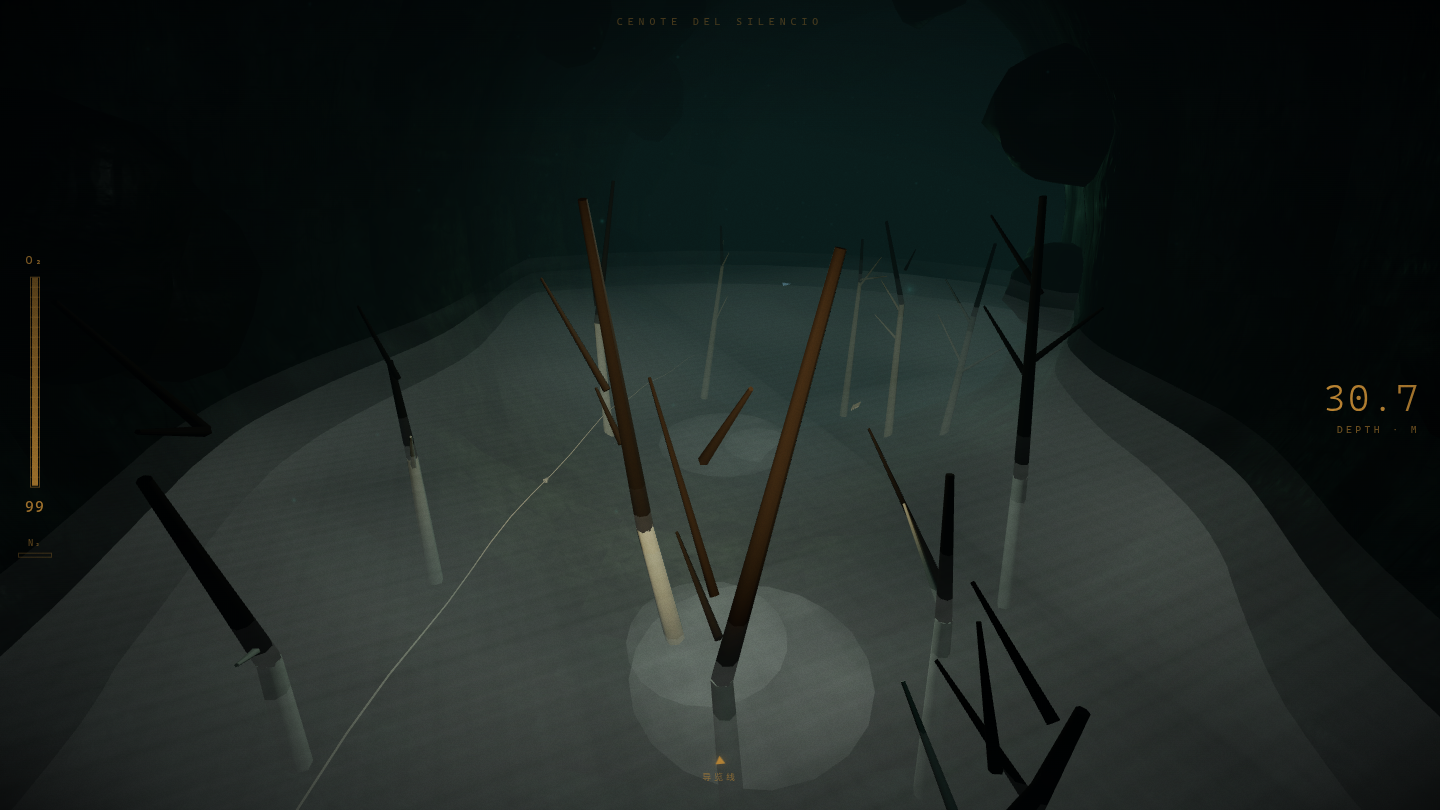
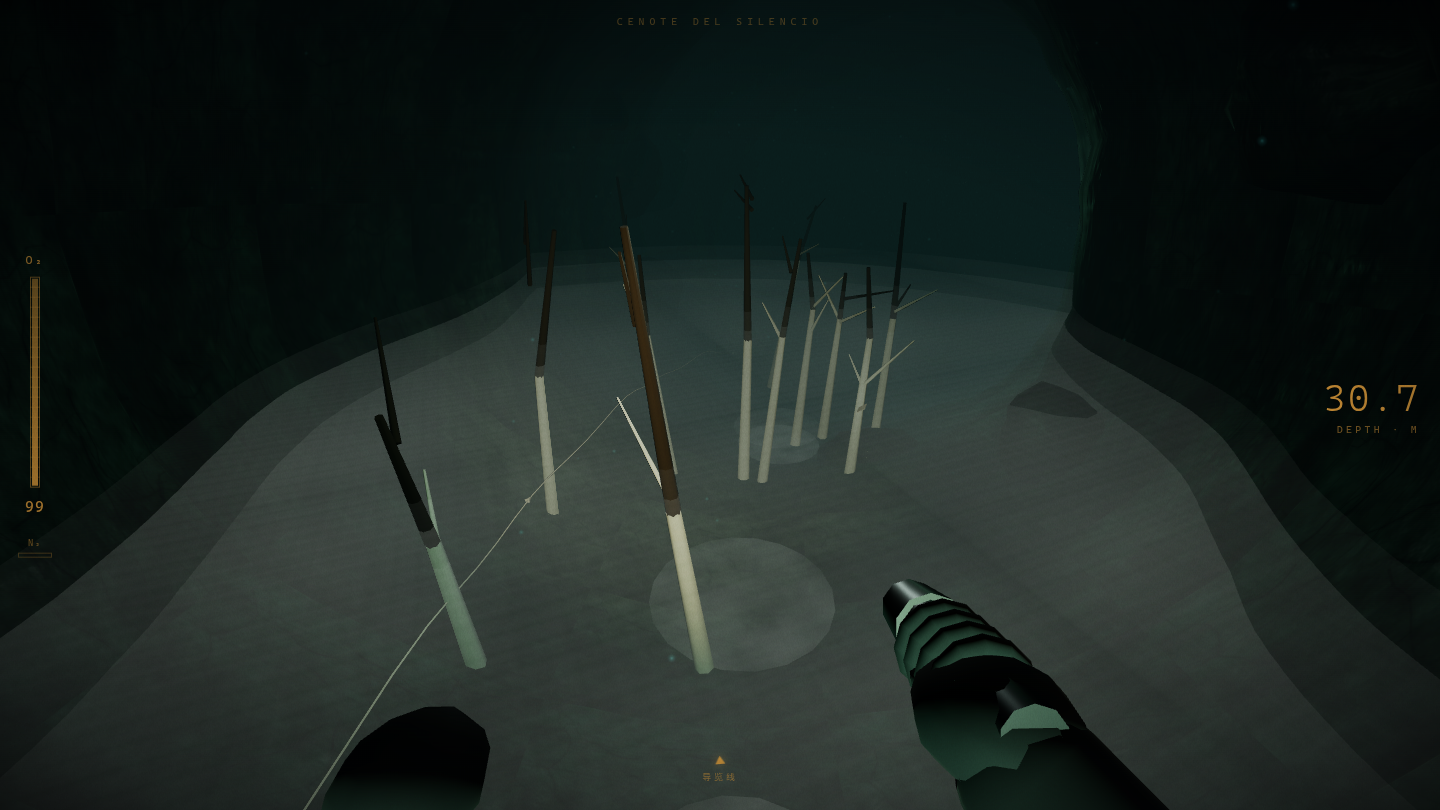
feat(M5-L6): 视觉精修——深渊星空(316点三簇贴壁荧光介形虫群落+相位呼吸) + 管风琴重制(11根等距圆柱管+音阶尖帽, 翻离支线C洞口壁) + 界门拱面暖光/逆光提亮 + 修幽灵堵路真bug(咽喉溢出石笋随机堵泳道→贴壁半尺寸+确定性LCG); scan 0/0 可复现, flow/sim/shots 全绿

diff --git a/src/game/Landmarks.ts b/src/game/Landmarks.ts
@@ -2,7 +2,7 @@ import * as THREE from 'three';
 import type { QualityProfile } from './quality';
 import type { Cave } from './Cave';
 import type { Models } from './Models';
-import { glyphTexture, woodTexture } from './textures';
+import { glyphTexture, particleSprite, woodTexture } from './textures';
 import { boulderGeometry, dripstoneGeometry, vnoise3 } from './geo';
 
 /**
@@ -35,6 +35,8 @@ export class Landmarks {
   private brokenLineEnd: THREE.Mesh | null = null;
   /** M4-L8 黑井呼吸幽光（膜+柱）：缓慢脉动的不祥光 */
   private pitBreath: THREE.MeshBasicMaterial[] = [];
+  /** M5-L6 深渊星空（贴壁荧光介形虫群落）：分组相位呼吸 */
+  private starMats: { mat: THREE.PointsMaterial; base: number }[] = [];
   /** M4-L5 距离剔除簇：雾外的地标集合整组隐藏（省 drawcall 与 overdraw；无遮挡剔除的补偿） */
   private cullClusters: { obj: THREE.Object3D; center: THREE.Vector3; r2: number }[] = [];
 
@@ -63,6 +65,56 @@ export class Landmarks {
     this.buildBypassMarks(cave);
     this.buildOrganCurtain(cave, rockMat);
     this.buildGreatArch(cave, rockMat);
+    this.buildAbyssStars(cave);
+  }
+
+  // ---------- M5-L6 深渊星空：贴壁生物荧光点簇（发光介形虫群落） ----------
+  /**
+   * 深渊大厅的「一眼奇观」：黑到看不见壁面，但壁上缀满微弱的青绿光点——
+   * 像一面倒扣的星空。科学原型是无光带介形虫/发光细菌群落（水母荧光的同源呼应）。
+   * fog:false 让它在深渊雾里也远远可见；三组相位差呼吸，星星「在换气」。
+   */
+  private buildAbyssStars(cave: Cave): void {
+    const { t0, t1 } = cave.zoneRange('abyss');
+    const hallC = cave.frameAt(0, (t0 + t1) / 2).p.clone();
+    const rnd = (k: number): number => {
+      const s = Math.sin(k * 127.1 + 311.7) * 43758.5453;
+      return s - Math.floor(s);
+    };
+    const g = new THREE.Group();
+    const tex = particleSprite();
+    const dir = new THREE.Vector3();
+    const mkCluster = (n: number, size: number, color: number, baseOp: number, seed: number): void => {
+      const pos = new Float32Array(n * 3);
+      for (let i = 0; i < n; i++) {
+        // 星点沿区内 t 随机取管框架，贴上半壁/侧壁（底部是泳道，翻上去）
+        const t = t0 + rnd(seed + i * 3.1) * (t1 - t0);
+        const fr = cave.frameAt(0, t);
+        const r = cave.radiusAt(t);
+        const a = rnd(seed + i * 7.7) * Math.PI * 2;
+        dir.copy(fr.N).multiplyScalar(Math.cos(a)).addScaledVector(fr.B, Math.sin(a));
+        if (dir.y < -0.15) dir.y = -dir.y;
+        dir.normalize();
+        const d = r * (0.86 + rnd(seed + i * 11.3) * 0.1);
+        pos[i * 3] = fr.p.x + dir.x * d;
+        pos[i * 3 + 1] = fr.p.y + dir.y * d;
+        pos[i * 3 + 2] = fr.p.z + dir.z * d;
+      }
+      const geo = new THREE.BufferGeometry();
+      geo.setAttribute('position', new THREE.BufferAttribute(pos, 3));
+      const mat = new THREE.PointsMaterial({
+        map: tex, size, color, transparent: true, opacity: baseOp,
+        blending: THREE.AdditiveBlending, depthWrite: false, fog: false, sizeAttenuation: true,
+      });
+      const pts = new THREE.Points(geo, mat);
+      g.add(pts);
+      this.starMats.push({ mat, base: baseOp });
+    };
+    mkCluster(220, 0.5, 0x6fc4ae, 0.65, 3.7); // 底色星尘：小而密
+    mkCluster(70, 0.9, 0x9fe0cc, 0.85, 17.3); // 亮星：稀疏提神
+    mkCluster(26, 1.5, 0xc4ecd9, 1.0, 29.1); // 一等星：构图锚点
+    this.group.add(g);
+    this.registerCull(g, hallC, 95);
   }
 
   // ---------- M5-L2 新奇观 · Z2 管风琴帷幕：一整面流石幕 + 石柱列 ----------
@@ -73,50 +125,61 @@ export class Landmarks {
     const fr0 = cave.frameAt(0, tBase);
     const anchor = fr0.p.clone();
     // 帷幕贴「水平侧壁」：横向偏移只用 N（B 在水平管段主要指向竖直——角向混入 B 会把柱列吊上天，M5-L2 踩坑）
+    // M5-L6 翻到对侧壁（negate）：原侧壁正是支线 C 蝙蝠气室洞口——帷幕和洞口岩石环撞位互相遮挡
     const side = fr0.N.y > 0.5 || fr0.N.y < -0.5 ? fr0.B.clone() : fr0.N.clone();
     side.y = 0;
-    side.normalize();
+    side.normalize().negate();
     this.organPos.copy(anchor).addScaledVector(side, cave.radiusAt(tBase) * 0.72);
     const g = new THREE.Group();
     const rnd = (k: number): number => {
       const s = Math.sin(k * 91.7 + 33.1) * 43758.5453;
       return s - Math.floor(s);
     };
-    // 沿切向排 13 根柱：同一水平壁侧，高度按「音管」节奏起伏；
+    // 沿切向排 11 根柱：同一水平壁侧，高度按「音管」节奏起伏；
     // 每根柱的地板/天花取该横向偏移处的弦高（贴壁处洞顶更低——用弦高才落地）
-    const PIPES = 13;
+    // M5-L6 重制：旧版 13 根尖锥间距仅 ~0.6m、柱径 >1m——互相嵌成一面糊墙，读作「尖牙」。
+    // 改等距密排「圆柱管」（微锥收 + 上下裙边），间距 ~1.1m / 柱径 ~0.8m，缝隙里透出洗墙光。
+    const PIPES = 11;
     for (let k = 0; k < PIPES; k++) {
-      const tk = tBase + (k - PIPES / 2) * 0.0024;
+      const tk = tBase + (k - (PIPES - 1) / 2) * 0.0042;
       const fr = cave.frameAt(0, tk);
       const r = cave.radiusAt(tk);
       const sideK = fr.N.y > 0.5 || fr.N.y < -0.5 ? fr.B.clone() : fr.N.clone();
       sideK.y = 0;
-      sideK.normalize();
-      const d = r * (0.62 + rnd(k * 5.1) * 0.14);
+      sideK.normalize().negate();
+      // 贴壁 0.72r：0.66r 时基座裙探进泳道走廊（scan BLOCK，M5-L6 踩坑）
+      const d = r * (0.72 + rnd(k * 5.1) * 0.05);
       const base = fr.p.clone().addScaledVector(sideK, d);
       const chord = Math.sqrt(Math.max(1.2, r * r - d * d)); // 该偏移处的半弦高
       const floorY = fr.p.y - chord * 1.02; // 略埋进地板（凹凸位移余量）
       const ceilY = fr.p.y + chord * 1.02;
       // 音管节奏：中央最高（顶天立地的全柱），两侧渐短
-      const rhythm = 1 - Math.abs(k - PIPES / 2) / (PIPES / 2);
-      const full = rhythm > 0.55 || rnd(k * 7.3) > 0.72;
-      const sxz = 0.5 + rnd(k * 9.7) * 0.5 + rhythm * 0.4;
-      if (full) {
-        // 全柱：石笋+石钟乳腰部相接
-        const up = new THREE.Mesh(dripstoneGeometry(4.1 + k, 14, 18), mat);
-        up.scale.set(sxz, (ceilY - floorY) * 0.55, sxz);
-        up.position.set(base.x, floorY, base.z);
-        const down = new THREE.Mesh(dripstoneGeometry(9.3 + k, 14, 18), mat);
-        down.scale.set(sxz * 0.88, (ceilY - floorY) * 0.55, sxz * 0.88);
-        down.rotation.x = Math.PI;
-        down.position.set(base.x, ceilY, base.z);
-        g.add(up, down);
+      const rhythm = 1 - Math.abs(k - (PIPES - 1) / 2) / ((PIPES - 1) / 2);
+      const full = rhythm > 0.62 || rnd(k * 7.3) > 0.78;
+      const H = ceilY - floorY;
+      const pipeR = 0.34 + rhythm * 0.18 + rnd(k * 9.7) * 0.08;
+      const h = full ? H : H * (0.42 + rhythm * 0.3 + rnd(k * 11.1) * 0.18);
+      const pipe = new THREE.Mesh(new THREE.CylinderGeometry(pipeR * 0.84, pipeR, h, 12, 3), mat);
+      pipe.position.set(base.x, floorY + h / 2, base.z);
+      g.add(pipe);
+      // 基座裙：一小段滴水石埋住柱脚（流石在长柱；裙径克制——滴水石几何带宽裙边）
+      const skirtK = new THREE.Mesh(dripstoneGeometry(6.7 + k, 10, 12), mat);
+      skirtK.scale.set(pipeR * 1.6, h * 0.16, pipeR * 1.6);
+      skirtK.position.set(base.x, floorY, base.z);
+      g.add(skirtK);
+      if (!full) {
+        // 短柱顶加尖帽：石笋还在往上长——高低差读出「音阶」
+        const cap = new THREE.Mesh(dripstoneGeometry(4.1 + k, 10, 12), mat);
+        cap.scale.set(pipeR * 1.3, H * 0.1 + rnd(k * 3.3) * 0.5, pipeR * 1.3);
+        cap.position.set(base.x, floorY + h - 0.05, base.z);
+        g.add(cap);
       } else {
-        const h = (ceilY - floorY) * (0.32 + rhythm * 0.35 + rnd(k * 11.1) * 0.15);
-        const up = new THREE.Mesh(dripstoneGeometry(6.7 + k, 12, 16), mat);
-        up.scale.set(sxz * 0.85, h, sxz * 0.85);
-        up.position.set(base.x, floorY, base.z);
-        g.add(up);
+        // 全柱顶裙：与天花相接处的钟乳裙边
+        const top = new THREE.Mesh(dripstoneGeometry(9.3 + k, 10, 12), mat);
+        top.scale.set(pipeR * 1.5, h * 0.14, pipeR * 1.5);
+        top.rotation.x = Math.PI;
+        top.position.set(base.x, ceilY, base.z);
+        g.add(top);
       }
     }
     // 帷幕流石裙：柱列基座连成一条流石台（读作一面墙而非散点），沉入地板
@@ -125,24 +188,26 @@ export class Landmarks {
     const m4 = new THREE.Matrix4();
     const q4 = new THREE.Quaternion();
     for (let k = 0; k < 9; k++) {
-      const tk = tBase + (k - 4.5) * 0.0034;
+      const tk = tBase + (k - 4.5) * 0.0052;
       const fr = cave.frameAt(0, tk);
       const r = cave.radiusAt(tk);
       const sideK = fr.N.y > 0.5 || fr.N.y < -0.5 ? fr.B.clone() : fr.N.clone();
       sideK.y = 0;
-      sideK.normalize();
-      const d = r * 0.68;
+      sideK.normalize().negate();
+      const d = r * 0.74;
       const chord = Math.sqrt(Math.max(1.2, r * r - d * d));
       const base = fr.p.clone().addScaledVector(sideK, d);
       base.y = fr.p.y - chord * 1.0;
-      const s = 1.2 + rnd(k * 4.3) * 0.8;
+      // M5-L6 裙石缩小：之前 s 1.2~2.0 的巨石比音管还大，喧宾夺主
+      const s = 0.65 + rnd(k * 4.3) * 0.45;
       q4.setFromEuler(new THREE.Euler(rnd(k * 6.1) * 0.5, rnd(k * 8.9) * 6.28, rnd(k * 2.9) * 0.5));
-      m4.compose(base, q4, new THREE.Vector3(s * 1.6, s * 0.5, s));
+      m4.compose(base, q4, new THREE.Vector3(s * 1.4, s * 0.45, s));
       skirt.setMatrixAt(k, m4);
     }
     g.add(skirt);
     // 帷幕洗墙光：暖聚光从对侧壁打向柱列 + 冷点光勾轮廓
-    const warm = new THREE.SpotLight(0xd8c9a0, 90, 26, 0.7, 0.75, 1.4);
+    // M5-L6 提亮 90→150：圆柱管的立体感靠缝隙阴影，主光弱了读成平墙
+    const warm = new THREE.SpotLight(0xd8c9a0, 150, 28, 0.72, 0.7, 1.35);
     warm.position.copy(anchor).addScaledVector(side, -cave.radiusAt(tBase) * 0.45).add(new THREE.Vector3(0, 1.2, 0));
     warm.target.position.copy(this.organPos);
     g.add(warm, warm.target);
@@ -200,10 +265,17 @@ export class Landmarks {
       g.add(hang);
     }
     // 界门光：拱后冷幽绿逆光（卤水层的颜色从门里漏出来——回程时反向读作暖门）
-    const gate = new THREE.PointLight(0x4e6e58, 30, 24, 1.5);
-    gate.position.copy(p).addScaledVector(cave.frameAt(0, tArch + 0.004).p.clone().sub(p).normalize(), 6);
+    // M5-L6 提亮：30→110 / 距离 24→32——之前拱只剩一个模糊光斑，剪影读不出「门」
+    const fwd = cave.frameAt(0, tArch + 0.004).p.clone().sub(p).normalize();
+    const gate = new THREE.PointLight(0x4e6e58, 110, 32, 1.4);
+    gate.position.copy(p).addScaledVector(fwd, 6);
     cave.zoneLights.push(gate);
     g.add(gate);
+    // M5-L6 拱面暖光：厅侧一盏低强度暖点光扫亮拱石正面——石面暖、门洞冷，一眼分层
+    const face = new THREE.PointLight(0xc9b184, 75, 24, 1.4);
+    face.position.copy(p).addScaledVector(fwd, -4.5).add(new THREE.Vector3(0, 2.2, 0));
+    cave.zoneLights.push(face);
+    g.add(face);
     this.group.add(g);
     this.registerCull(g, p, 70);
   }
@@ -376,20 +448,32 @@ export class Landmarks {
       meshes[idx % variants.length].setMatrixAt(Math.floor(idx / variants.length), mm);
       idx++;
     };
+    // M5-L6：管风琴帷幕独占一段墙——原生石笋在帷幕 t 段让位，柱列不被杂石淹没
+    const organT = t0 + (t1 - t0) * 0.52;
+    // M5-L6：确定性伪随机替换 Math.random——随机石笋曾间歇性堵死咽喉走廊，
+    // 每次构建位置都不同导致 scan 结果不可复现（时好时坏的「幽灵堵路」）
+    let seed = 4711;
+    const rand = (): number => {
+      seed = (seed * 1103515245 + 12345) & 0x7fffffff;
+      return seed / 0x7fffffff;
+    };
     while (idx < total) {
-      const t = t0 + Math.random() * (t1 - t0) * 1.35; // 溢出到咽喉口
+      const t = t0 + rand() * (t1 - t0) * 1.35; // 溢出到咽喉口
+      if (Math.abs(t - organT) < 0.03) continue;
       const { p: center } = cave.frameAt(0, t);
       const r = cave.radiusAt(t);
-      const isColumn = Math.random() < 0.1;
-      const fromCeil = isColumn ? true : Math.random() < 0.6;
+      // 溢出段（咽喉，r≈2.2m 窄管）：禁柱、贴壁、半尺寸——否则随机石笋会横在泳道上
+      const over = t > t1;
+      const isColumn = !over && rand() < 0.1;
+      const fromCeil = isColumn ? true : rand() < 0.6;
       const posv = center.clone();
       // 避开泳道中轴：水平偏移下限（粗柱贴脸挡视线、也挡玩家路线）
-      const minOff = r * (isColumn ? 0.5 : 0.34);
-      const offAng = Math.random() * Math.PI * 2;
-      const offR = minOff + Math.random() * (r * 0.75 - minOff);
+      const minOff = r * (isColumn ? 0.5 : over ? 0.6 : 0.34);
+      const offAng = rand() * Math.PI * 2;
+      const offR = minOff + rand() * (r * 0.75 - minOff);
       posv.x += Math.cos(offAng) * offR;
       posv.z += Math.sin(offAng) * offR;
-      const s = 0.5 + Math.random() * 1.1;
+      const s = (0.5 + rand() * 1.1) * (over ? 0.5 : 1);
       if (isColumn) {
         // 石柱 = 石笋 + 石钟乳在腰部相接（真实成柱方式，占两个实例槽）
         posv.y = center.y - r * 0.95;
@@ -400,12 +484,12 @@ export class Landmarks {
         m.compose(posc, qDown, new THREE.Vector3(s * 0.82, r * 1.06, s * 0.82));
         place(m);
       } else if (fromCeil) {
-        posv.y = center.y + r * (0.88 + Math.random() * 0.15);
-        m.compose(posv, qDown, new THREE.Vector3(s * 0.8, 2.6 * s * (1.1 + Math.random() * 0.9), s * 0.8));
+        posv.y = center.y + r * (0.88 + rand() * 0.15);
+        m.compose(posv, qDown, new THREE.Vector3(s * 0.8, 2.6 * s * (1.1 + rand() * 0.9), s * 0.8));
         place(m);
       } else {
-        posv.y = center.y - r * (0.85 + Math.random() * 0.18);
-        m.compose(posv, qUp, new THREE.Vector3(s, 2.6 * s * (0.9 + Math.random() * 0.7), s));
+        posv.y = center.y - r * (0.85 + rand() * 0.18);
+        m.compose(posv, qUp, new THREE.Vector3(s, 2.6 * s * (0.9 + rand() * 0.7), s));
         place(m);
       }
     }
@@ -1134,6 +1218,11 @@ export class Landmarks {
       const b = 0.5 + Math.sin(time * 0.7) * 0.5;
       this.pitBreath[0].opacity = 0.1 + b * 0.12;
       this.pitBreath[1].opacity = 0.06 + b * 0.08;
+    }
+    // 深渊星空呼吸：三组相位差闪烁（星星「在换气」）
+    for (let i = 0; i < this.starMats.length; i++) {
+      const s = this.starMats[i];
+      s.mat.opacity = s.base * (0.72 + Math.sin(time * (0.4 + i * 0.27) + i * 2.1) * 0.28);
     }
   }
 }

diff --git a/src/game/Cave.ts b/src/game/Cave.ts
@@ -578,8 +578,15 @@ export class Cave {
     const quat = new THREE.Quaternion();
     const scl = new THREE.Vector3();
     const main = this.paths[0];
+    // M5-L6：管风琴帷幕段（gallery@0.52 ± 带宽）凸石让位——大凸石会把柱列构图搅成乱石堆
+    const gz = this.zoneT.get('gallery')!;
+    const organT = gz.t0 + (gz.t1 - gz.t0) * 0.52;
     for (let i = 0; i < per * variants.length; i++) {
       const t = Math.random();
+      if (Math.abs(t - organT) < 0.03) {
+        i--;
+        continue;
+      }
       const ang = Math.random() * Math.PI * 2;
       const center = main.curve.getPointAt(t);
       const tan = main.curve.getTangentAt(t);

diff --git a/src/game/Game.ts b/src/game/Game.ts
@@ -418,6 +418,7 @@ export class Game {
         this.siltUntil = this.time + seconds;
         if (seconds <= 0) this.envSnap = true;
       },
+      lamp: (v: number) => this.player.lightOn(v),
       state: () => ({
         state: this.state,
         phase: this.phase,

diff --git a/docs/WORKFLOW.md b/docs/WORKFLOW.md
@@ -253,6 +253,7 @@
 | L2 | 2026-08-27 01:45 | 02:30 | 45m | 地图重做：主脉剖面重塑——竖井钟形腹（6.2/6.35/5.6 渐收；>6.4 会在净空柱外挂「屋檐」遮死 Snell 窗，踩坑修复）、咽喉 S 弯加拐点收窄到 2.15、光之厅 12.5→14、深渊 16.5→17.5、烟囱串珠节奏；新奇观地标 ×2：回廊「管风琴流石帷幕」（13 柱音管节奏高低差+全柱腰接+流石裙+对侧暖洗墙光/冷勾边光；踩坑：水平管段横向偏移只能用 N 分量否则柱列吊上天、地板/天花要取该横向偏移处的弦高否则悬空）、光之厅→卤水镜「界门巨拱」（跨管石砌拱+拱后冷绿逆光剪影+垂帘悬石）；shots 新增 z2-organ/z5-arch 机位 |
 | L3 | 2026-08-27 02:30 | 03:20 | 50m | 人物重做：**玩家第一人称身体**（PlayerBody 新模块：连贯肘→腕→手链条持灯右臂+腕上潜水电脑左臂[屏色随氧量变橙红告警]+呼吸气泡粒子+游速摆动；踩坑 ×2：散件欧拉角摆放在俯视时裂成漂浮碎块→改两点连线胶囊链；散棍手指读作毛毛虫腿→改缠绕筒身的握环）；**特奥全身重制**（1:7.2 人体比例、双关节四肢、面镜+可见脸部+咬嘴+呼吸管弧线、BCD 翼+背板、叶形蛙鞋相位差踢鳍、头部独立注视玩家）；新灯语 slow（掌心下压"减速"）/line（指向导览线）；护航段玩家冲刺贴身时特奥打 slow；手电光源与筒头对齐 |
 | L4 | 2026-08-27 03:20 | 04:25 | 65m | 生态与可交互物做全：①自然手记从「走过就弹」升级**准星注视观察**（~11° 对准 + 1.4s 注视触发，HUD 出「观察中 ●●●○」进度提示；踩坑：注视判定最初用带手持惯性的 lightRig 光轴——慢半拍且无头下滞后数秒，改相机实时朝向）；②遗物**F 观察交互**（4.5m 内准星对准出「F · 观 察」提示，按 F 触发观察文案；触屏退回 2.4m 贴近自动）；③**浮游趋光**（光锥 3.2m 内发光体向束轴聚拢点亮，关灯漂回原位——群体不被永久拖走）；④**鱼群光束惊散**（束轴 1.8m 内的鱼被垂直光轴推散——银汉鱼避强光）；⑤**气泡帘穿越演出**（帘内 ventFizz 嘶沙声+0.55 浮托+视野一圈 14 泡炸开+首次字幕）；⑥**卤水跃层搅动**（带速穿越云面→云面流速×7/浊度+80% 上冲 5s 平复+首次教学字幕「贴着它游别踢它」）；修复 `faceWorldPoint` 用相机位导致同帧 move 后瞄向旧点的调试钩子 bug；`__dd` 新增 vents/gaze/relicPos；无头验证脚本 10/10 绿 |
+| L6 | 2026-08-27 05:45 | 07:20 | 95m | 视觉精修（三处英雄镜头 + 一个真 bug）：①**深渊星空**——黑厅贴壁 316 点三簇生物荧光点簇（发光介形虫群落，与水母荧光同源呼应），fog:false 穿雾远视 + 三组相位差呼吸闪烁，深渊从「一块致盲黑」变成「倒扣星空」，z8-abyss 机位改上仰；②**管风琴帷幕重制**——旧版 13 根尖锥间距 0.6m/柱径 >1m 互相嵌成糊墙读作「尖牙」，改 11 根等距密排圆柱管（间距 1.1m/柱径 0.8m/微锥收），短柱顶加石笋尖帽读出「音阶」，柱列翻到对侧壁（原侧正是支线 C 洞口——两地标撞位互相遮挡），原生石笋+洞壁凸石在帷幕 t 段让位，warm 洗墙 90→150，z2-organ 改 MARKPOS 正面中距机位 + 每镜头可调手电强度（近景 40 全亮会洗白）；③**界门提亮**——拱后逆光 30→110/32m + 拱面暖点光 75（石面暖框、门洞冷蓝一眼分层）；④**真 bug：幽灵堵路**——scan 复跑发现 BLOCK t=0.150 在咽喉区（非帷幕）：石笋系统「溢出到咽喉口」的随机石笋在 2.2m 窄管里 minOff 仅 0.73m，横在泳道上，且 Math.random 每次构建位置不同——时堵时通不可复现；修复：溢出段禁柱/贴壁 0.6r/半尺寸 + 全函数换确定性 LCG 伪随机；scan 连跑两次 CRITICAL=0 WARN=0 全一致（连之前 3 条急弯 NARROW 也消了）；flow 三结局 + sim 八路 + shots 20 点位全绿 |
 | L5 | 2026-08-27 04:25 | 05:45 | 80m | 事故模拟真实感强化：①**原因链系统**——每个 SIM 的 SimSpec 增设 chain（诱因→失误→恶化→致命点四节点）/chainFull（复盘全文）/counter（正确应对），简报页列出链条+应对，游玩中 HUD 顶部常驻链条灯（走到哪一环点亮到哪，CSS 红脉冲），复盘面板逐环渲染「亮/灭/在此打断」+教训行；PASS 显示「你在第 N 环打断了链条」，FAIL 显示链条走满到致命点——把「为什么死」从一句话变成可视因果；②**SIM-06 断线·搜索协议**新关：塌方段主线被岩缘磨断（音效+字幕演出），协议三步=定点（断头 2m 内静止 3s）→弧形扫灯（累计 2.4 弧度）→摸到远端断头接线撤离；违规离点漂移 8m/13m/18m 三档链条推进，>18m 致命；远端断头做发光标记+搜索绳视觉；③**片头伦理声明**——标题页 tagline 下加「本作事故场景为教学向虚构重建，向洞潜安全教育者致敬，不影射任何真实逝者」，与 §3.13 红线自查呼应；④通用安全网：任一 SIM 气尽即链条走满判负。测试：sim-test 扩至 8 路（SIM-06 成/败两路），踩坑 ×2：无头 20× 时间膨胀下扫灯 24 步不够累计弧度→扫足 44 步+收尾 waitStep 等游戏帧追上；SIM-06b 违规传送点 collapse@0.85 距断头仅 16m 不到 18m 阈值→改传送 abyss@0.12（29m）；flow-test 三结局 + sim-test 八路全绿 |
 
 ## 4. 技术工作流
